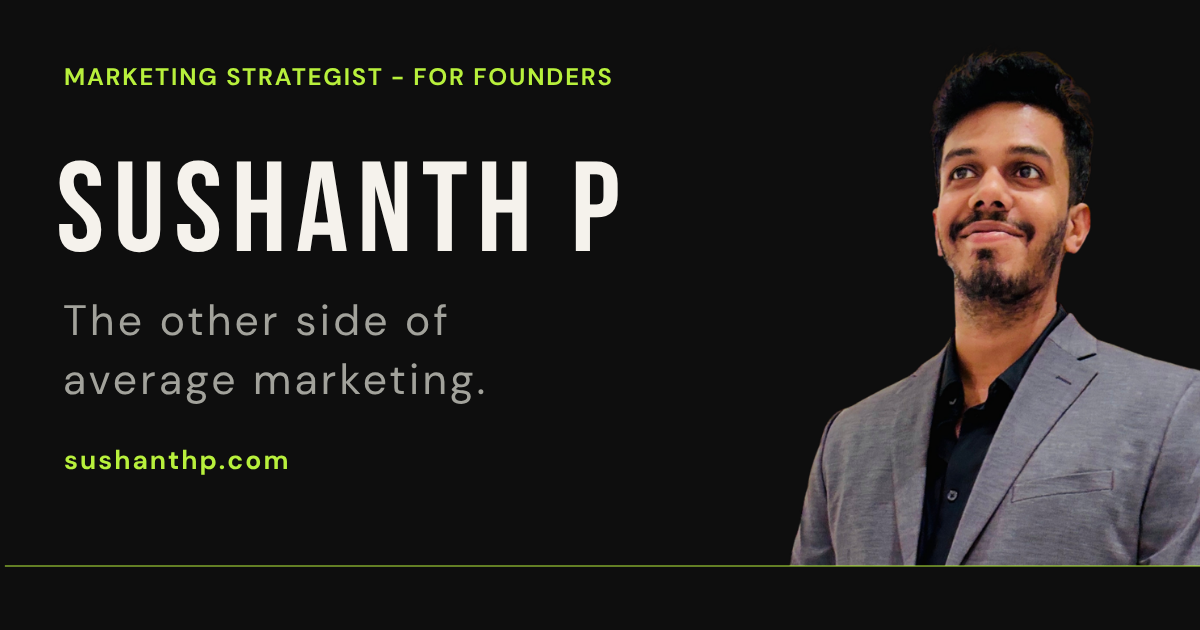
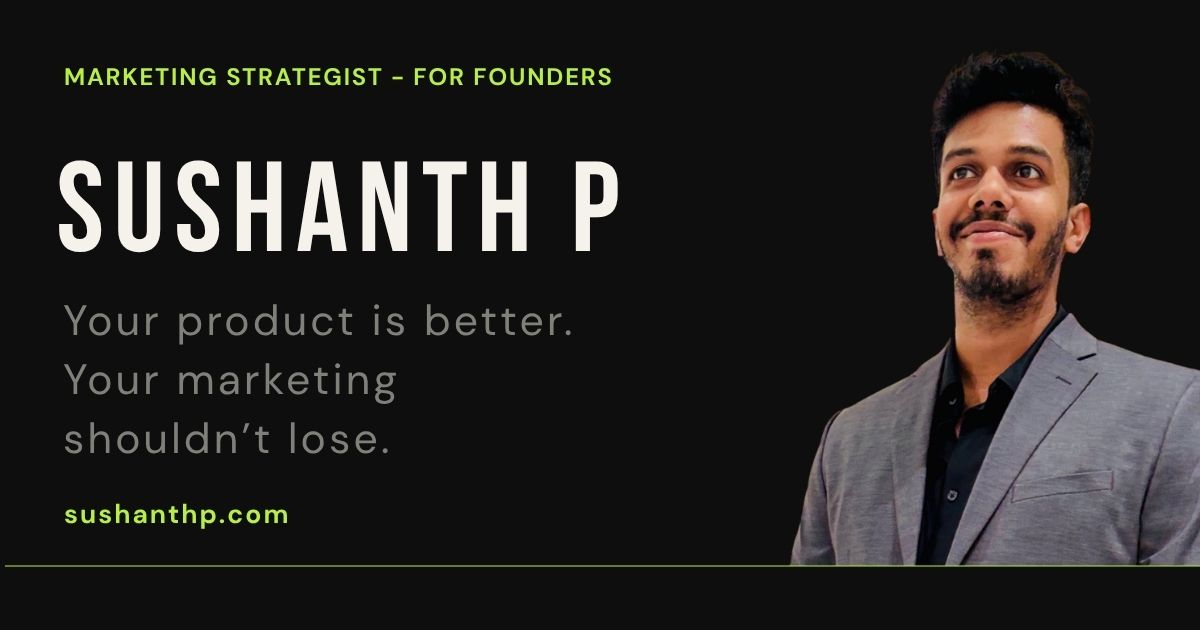
Update: og image update

diff --git a/app/layout.js b/app/layout.js
@@ -4,7 +4,7 @@ import Script from "next/script";
 export const metadata = {
   metadataBase: new URL("https://sushanthp.com"),
   title: {
-    default: "Sushanth P — Marketing Strategist for Founders",
+    default: "Sushanth P — Your Product Is Better. Your Marketing Shouldn't Lose.",
     template: "%s — Sushanth P",
   },
   description:
@@ -15,7 +15,7 @@ export const metadata = {
     canonical: "https://sushanthp.com",
   },
   openGraph: {
-    title: "Sushanth P — Marketing Strategist for Founders",
+    title: "Sushanth P — Your Product Is Better. Your Marketing Shouldn't Lose.",,
     description:
       "SEO, brand messaging, and ad copy built as one system. For founders who are done guessing.",
     url: "https://sushanthp.com",
@@ -33,7 +33,7 @@ export const metadata = {
   },
   twitter: {
     card: "summary_large_image",
-    title: "Sushanth P — Marketing Strategist for Founders",
+    title: "Sushanth P — Your Product Is Better. Your Marketing Shouldn't Lose.",
     description:
       "SEO, brand messaging, and ad copy built as one system. For founders who are done guessing.",
     images: ["https://sushanthp.com/og-image.jpg"],
